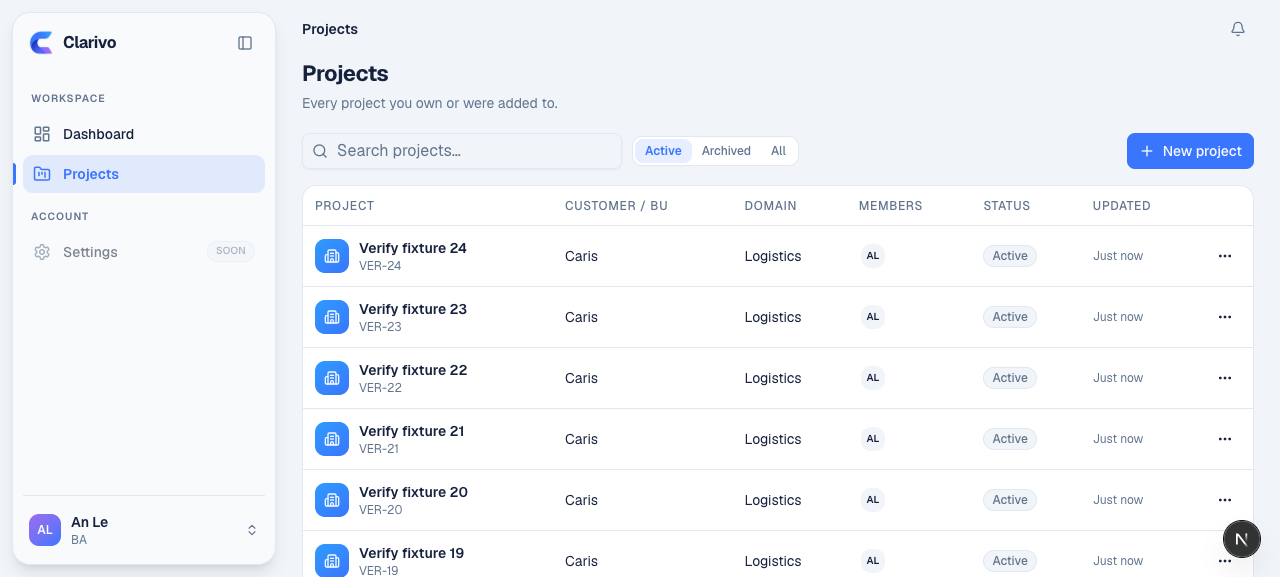
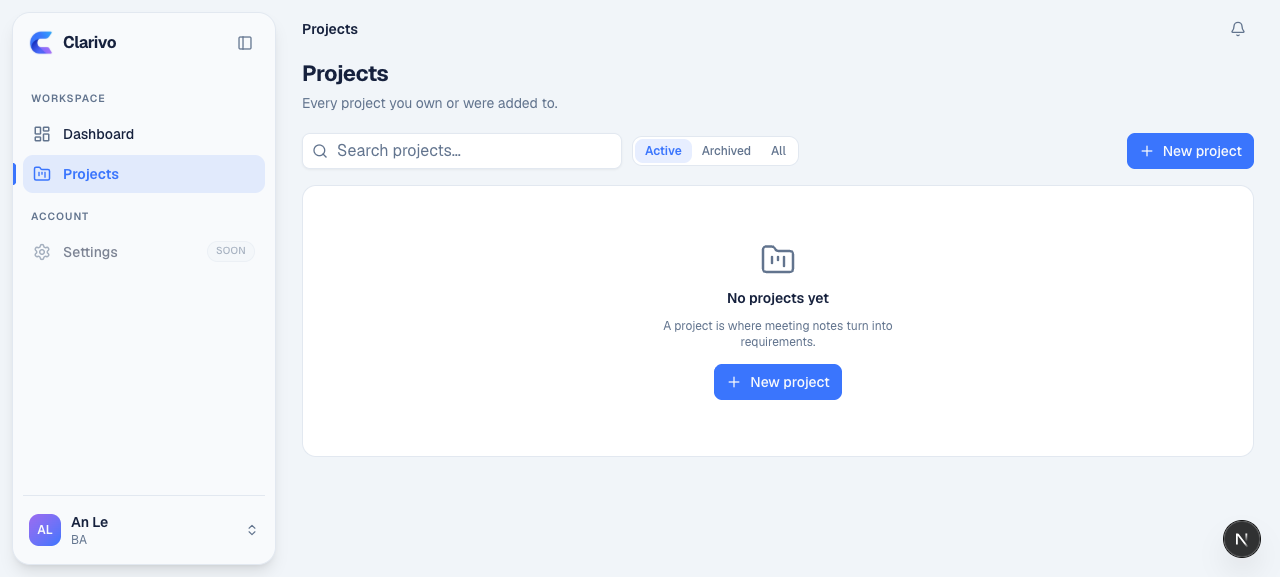
feat(projects): implement project overview and settings pages with layout

diff --git a/frontend/app/projects/page.tsx b/frontend/app/projects/page.tsx
@@ -90,7 +90,7 @@ export default function ProjectsPage() {
   }
 
   return (
-    <div className="px-5 pt-4 pb-10 md:px-6.5 md:pt-0">
+    <div className="flex h-full min-h-0 flex-col px-5 pt-4 pb-5 md:px-6.5 md:pt-0">
       <div className="hidden h-[58px] items-center md:flex">
         <span className="text-sm font-semibold">Projects</span>
         <Button
@@ -111,13 +111,17 @@ export default function ProjectsPage() {
       <div className="mb-4 flex flex-wrap items-center gap-2.5">
         <div className="relative min-w-[200px] flex-1 sm:max-w-[320px]">
           <Search className="pointer-events-none absolute top-1/2 left-2.5 size-4 -translate-y-1/2 text-muted-foreground" />
+          {/* bg-card here rather than in input.tsx: Input ships bg-transparent,
+              which is correct everywhere it sits inside a card or dialog. This
+              is the one input on the bare bg-muted shell, so it paints its own
+              surface — the mockup's `background: var(--card)`. */}
           <Input
             value={term}
             onChange={(e) => setTerm(e.target.value)}
             placeholder="Search projects…"
             aria-label="Search projects"
             data-testid="projects-search"
-            className="pl-8.5"
+            className="pl-8.5 bg-card"
           />
         </div>
 
@@ -166,7 +170,12 @@ export default function ProjectsPage() {
           </Button>
         </Card>
       ) : (
-        <Card className="overflow-hidden p-0">
+        <Card
+          className={cn(
+            "flex flex-col overflow-hidden p-0",
+            !isPending && data.items.length > 0 && "min-h-0 flex-1",
+          )}
+        >
           {isPending ? (
             <ProjectRowsSkeleton />
           ) : data.items.length === 0 ? (
@@ -177,8 +186,10 @@ export default function ProjectsPage() {
             )
           ) : (
             <>
-              <ProjectTable rows={data.items} />
-              <div className="flex items-center gap-2 border-t border-border px-3.5 py-2.5">
+              <div className="min-h-0 flex-1 overflow-auto">
+                <ProjectTable rows={data.items} />
+              </div>
+              <div className="flex shrink-0 items-center gap-2 border-t border-border px-3.5 py-2.5">
                 <span className="text-xs text-muted-foreground" data-testid="projects-range">
                   {firstRow}–{lastRow} of {total}
                 </span>
@@ -218,7 +229,7 @@ function ProjectTable({ rows }: { rows: ProjectSummaryDto[] }) {
   return (
     <Table data-testid="projects-table">
       <TableHeader>
-        <TableRow className="hover:bg-transparent">
+        <TableRow className="hover:bg-transparent [&>th]:sticky [&>th]:top-0 [&>th]:z-10 [&>th]:bg-card">
           <TableHead className="uppercase tracking-[0.06em]">Project</TableHead>
           <TableHead className="uppercase tracking-[0.06em]">Customer / BU</TableHead>
           <TableHead className="uppercase tracking-[0.06em]">Domain</TableHead>
@@ -346,7 +357,7 @@ function ProjectRowsSkeleton() {
   return (
     <Table>
       <TableHeader>
-        <TableRow className="hover:bg-transparent">
+        <TableRow className="hover:bg-transparent [&>th]:sticky [&>th]:top-0 [&>th]:z-10 [&>th]:bg-card">
           <TableHead className="uppercase tracking-[0.06em]">Project</TableHead>
           <TableHead className="uppercase tracking-[0.06em]">Customer / BU</TableHead>
           <TableHead className="uppercase tracking-[0.06em]">Domain</TableHead>

diff --git a/frontend/components/sidebar/app-shell.tsx b/frontend/components/sidebar/app-shell.tsx
@@ -1,0 +1,35 @@
+import { cookies } from "next/headers";
+import { TooltipProvider } from "@/components/ui/tooltip";
+import { AppSidebar } from "@/components/sidebar/app-sidebar";
+import { AuthGuard } from "@/components/sidebar/auth-guard";
+import { MobileNav } from "@/components/sidebar/mobile-nav";
+import { SIDEBAR_COOKIE } from "@/constants/sidebar";
+import { SidebarProvider } from "@/components/sidebar/sidebar-context";
+
+/**
+ * The shell around every authenticated route. Reading the collapse cookie on
+ * the server is the whole point: the first paint is already the right width,
+ * so a collapsed sidebar never flashes open.
+ */
+export async function AppShell({ children }: { children: React.ReactNode }) {
+  const defaultOpen = (await cookies()).get(SIDEBAR_COOKIE)?.value !== "false";
+
+  return (
+    <AuthGuard>
+      <SidebarProvider defaultOpen={defaultOpen}>
+        <TooltipProvider>
+          <div
+            data-sidebar-default={String(defaultOpen)}
+            className="flex h-dvh w-full overflow-hidden bg-muted text-foreground"
+          >
+            <AppSidebar />
+            <div className="flex min-w-0 flex-1 flex-col">
+              <MobileNav />
+              <main className="min-h-0 flex-1 overflow-y-auto">{children}</main>
+            </div>
+          </div>
+        </TooltipProvider>
+      </SidebarProvider>
+    </AuthGuard>
+  );
+}

diff --git a/frontend/app/projects/layout.tsx b/frontend/app/projects/layout.tsx
@@ -1,5 +1,5 @@
 import { AppShell } from "@/components/sidebar/app-shell";
 
-export default function AppLayout({ children }: LayoutProps<"/">) {
+export default function ProjectsLayout({ children }: LayoutProps<"/projects">) {
   return <AppShell>{children}</AppShell>;
 }
